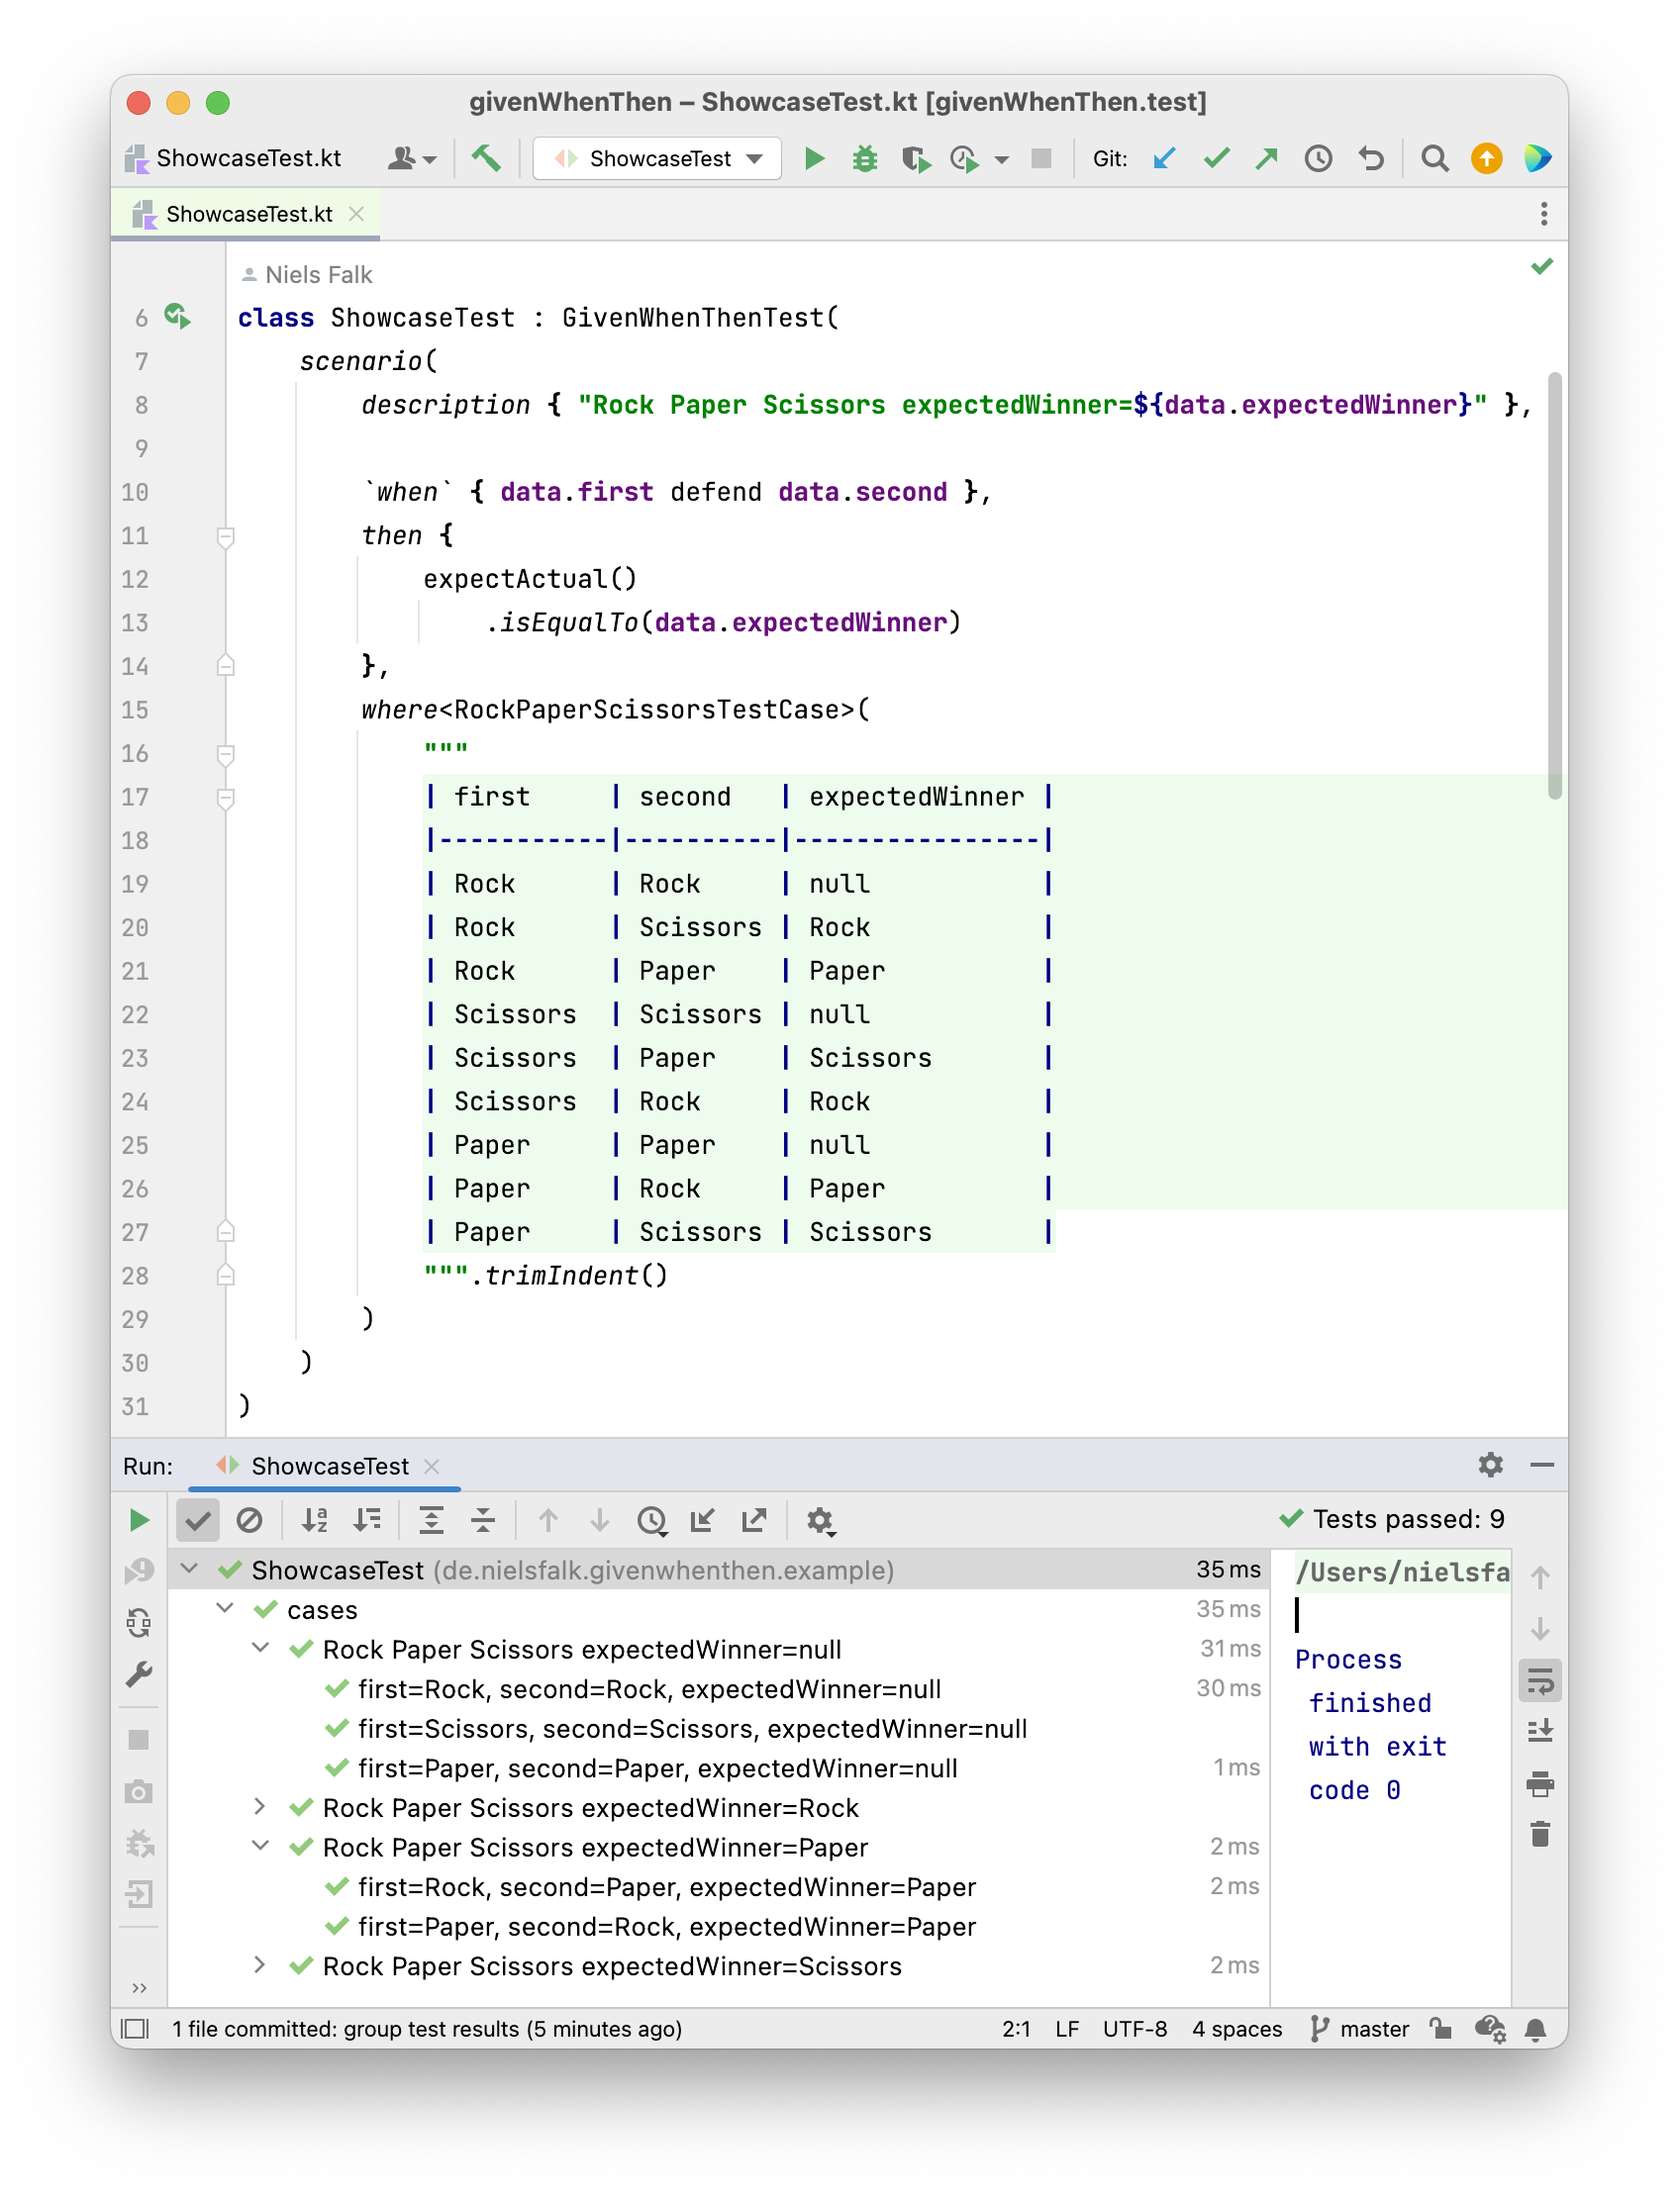
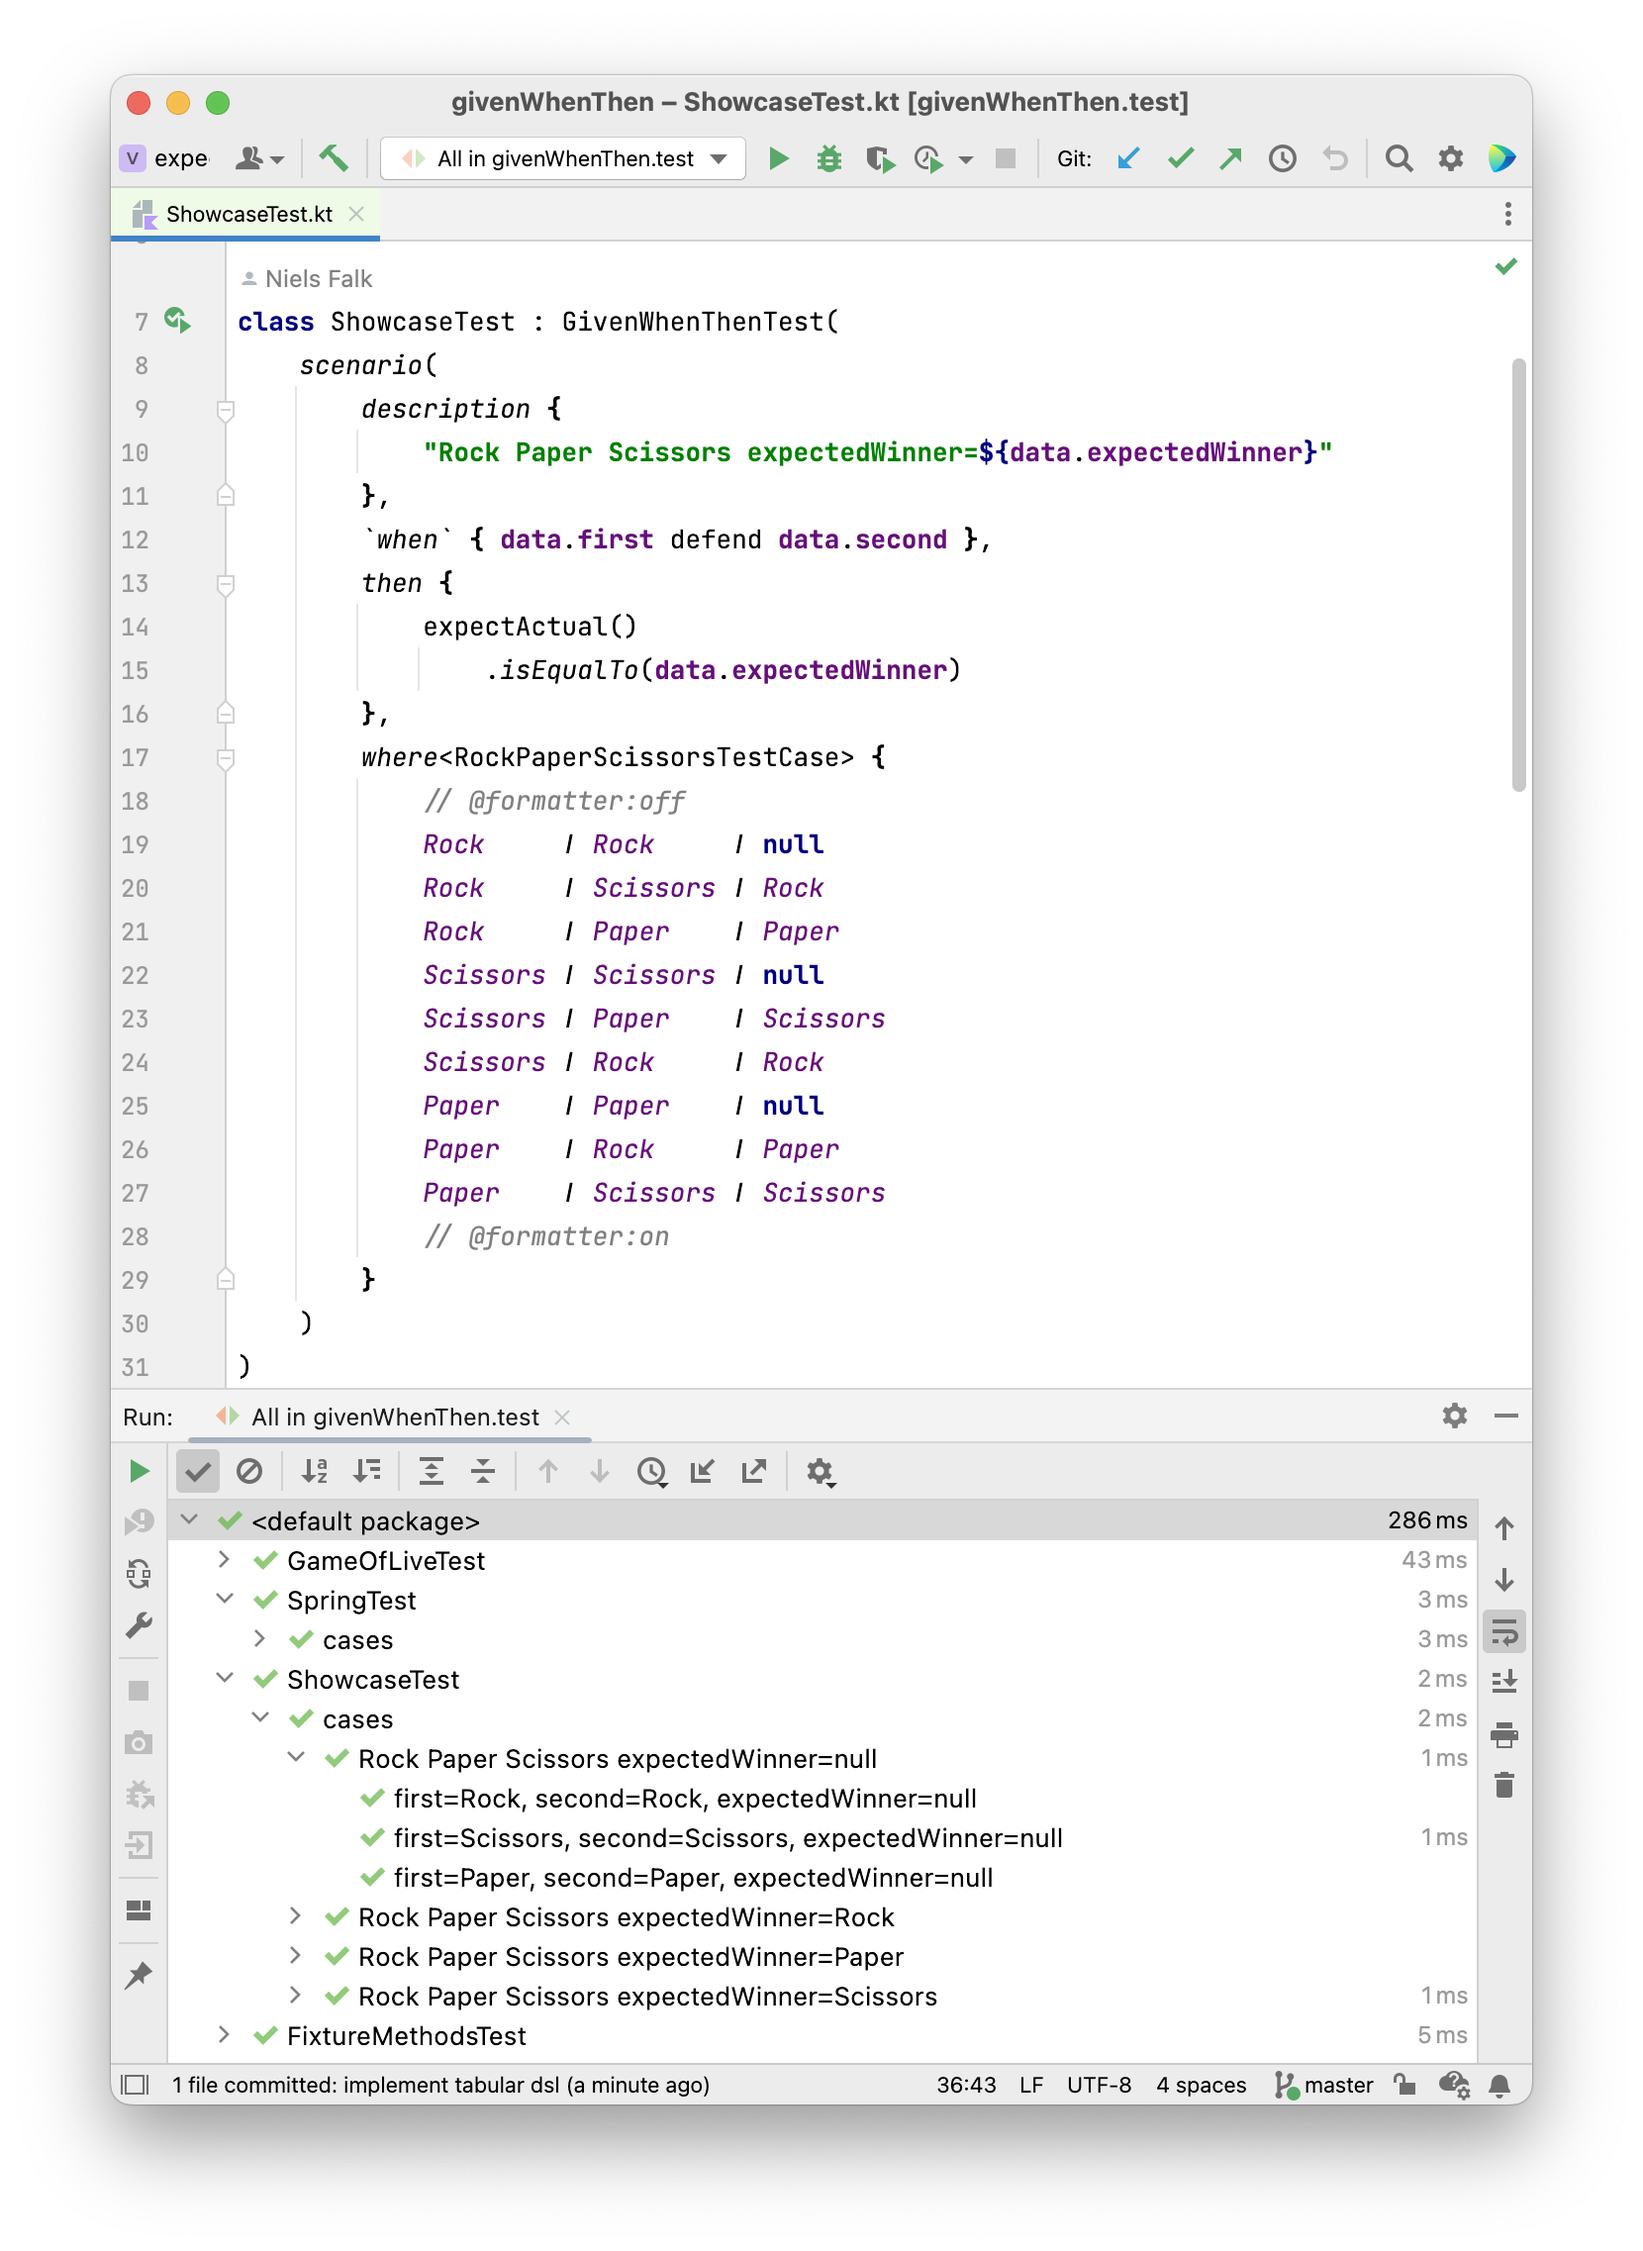
implement tabular dsl

diff --git a/src/test/kotlin/de/nielsfalk/givenwhenthen/example/ShowcaseTest.kt b/src/test/kotlin/de/nielsfalk/givenwhenthen/example/ShowcaseTest.kt
@@ -1,32 +1,32 @@
 package de.nielsfalk.givenwhenthen.example
 
 import de.nielsfalk.givenwhenthen.*
+import de.nielsfalk.givenwhenthen.example.RockPaperScissors.*
 import strikt.assertions.isEqualTo
 
 class ShowcaseTest : GivenWhenThenTest(
     scenario(
-        description { "Rock Paper Scissors expectedWinner=${data.expectedWinner}" },
-
+        description {
+            "Rock Paper Scissors expectedWinner=${data.expectedWinner}"
+        },
         `when` { data.first defend data.second },
         then {
             expectActual()
                 .isEqualTo(data.expectedWinner)
         },
-        where<RockPaperScissorsTestCase>(
-            """
-            | first     | second   | expectedWinner |
-            |-----------|----------|----------------|
-            | Rock      | Rock     | null           |
-            | Rock      | Scissors | Rock           |
-            | Rock      | Paper    | Paper          |
-            | Scissors  | Scissors | null           |
-            | Scissors  | Paper    | Scissors       |
-            | Scissors  | Rock     | Rock           |
-            | Paper     | Paper    | null           |
-            | Paper     | Rock     | Paper          |
-            | Paper     | Scissors | Scissors       |
-            """.trimIndent()
-        )
+        where<RockPaperScissorsTestCase> {
+            // @formatter:off
+            Rock     ǀ Rock     ǀ null
+            Rock     ǀ Scissors ǀ Rock
+            Rock     ǀ Paper    ǀ Paper
+            Scissors ǀ Scissors ǀ null
+            Scissors ǀ Paper    ǀ Scissors
+            Scissors ǀ Rock     ǀ Rock
+            Paper    ǀ Paper    ǀ null
+            Paper    ǀ Rock     ǀ Paper
+            Paper    ǀ Scissors ǀ Scissors
+            // @formatter:on
+        }
     )
 )
 

diff --git a/src/main/kotlin/de/nielsfalk/givenwhenthen/TabularDsl.kt b/src/main/kotlin/de/nielsfalk/givenwhenthen/TabularDsl.kt
@@ -1,0 +1,35 @@
+package de.nielsfalk.givenwhenthen
+
+import kotlin.reflect.jvm.isAccessible
+
+inline fun <reified T> where(function: TabularDataBuilder.() -> Unit): Array<T> = readTabularData(function)
+
+inline fun <reified T> readTabularData(function: TabularDataBuilder.() -> Unit): Array<T> =
+    TabularDataBuilder().run {
+        function()
+        val constructors = T::class.constructors
+
+        rowBuilders.map { rowBuilder ->
+            constructors.first { it.parameters.size == rowBuilder.cells.size }
+                .run {
+                    isAccessible = true
+                    call(*rowBuilder.cells.toTypedArray())
+                }
+        }.toTypedArray()
+    }
+
+class TabularDataBuilder {
+    val rowBuilders = mutableListOf<RowBuilder>()
+
+    @Suppress("FunctionName", "NonAsciiCharacters")
+    infix fun Any?.ǀ(nextCell: Any?): RowBuilder = if (this is RowBuilder) {
+        cells.add(nextCell)
+        this
+    } else RowBuilder(firstCell = this, nextCell).also {
+        rowBuilders += it
+    }
+}
+
+class RowBuilder(firstCell: Any?, secondCell: Any?) {
+    val cells = mutableListOf(firstCell, secondCell)
+}

diff --git a/src/test/kotlin/de/nielsfalk/givenwhenthen/TabularDslKtTest.kt b/src/test/kotlin/de/nielsfalk/givenwhenthen/TabularDslKtTest.kt
@@ -1,0 +1,23 @@
+package de.nielsfalk.givenwhenthen
+
+import strikt.assertions.containsExactly
+
+class TabularDslKtTest : GivenWhenThenTest(
+    scenario(
+        description { "read tabular data" },
+        `when` {
+            readTabularData<Triple<String, Int, Boolean>> {
+                // @formatter:off
+                "foo"      ǀ  1 ǀ true
+                "bar buzz" ǀ 15 ǀ false
+                // @formatter:on
+            }.toList()
+        },
+        then {
+            expectActual().containsExactly(
+                Triple("foo", 1, true),
+                Triple("bar buzz", 15, false)
+            )
+        }
+    )
+)

diff --git a/src/main/kotlin/de/nielsfalk/givenwhenthen/GivenWhenThenTest.kt b/src/main/kotlin/de/nielsfalk/givenwhenthen/GivenWhenThenTest.kt
@@ -14,7 +14,7 @@ abstract class GivenWhenThenTest(
     @DisplayName("cases")
     fun givenWhenThenTests(): List<DynamicNode> {
         val beforeAllAutoClose = AutoCloseBlock()
-        val groups = scenarios.flatMap { it }.groupBy { it.description }.toList()
+        val groups = scenarios.flatten().groupBy { it.description }.toList()
         return groups.flatMapIndexed { groupIndex, (name, tests) ->
             val dynamicTests = tests.mapIndexed { index, test ->
                 dynamicTest(

diff --git a/src/test/kotlin/de/nielsfalk/givenwhenthen/HanldedExceptionsTest.kt b/src/test/kotlin/de/nielsfalk/givenwhenthen/HanldedExceptionsTest.kt
@@ -4,7 +4,7 @@ import strikt.api.expectThat
 import strikt.assertions.isFalse
 import strikt.assertions.isTrue
 
-class HanldedExcetionsTest : GivenWhenThenTest(
+class HanldedExceptionsTest : GivenWhenThenTest(
     scenario(
         description { "throw in beforeAll" },
         `when` {

diff --git a/src/test/kotlin/de/nielsfalk/givenwhenthen/MarkdownParserKtTest.kt b/src/test/kotlin/de/nielsfalk/givenwhenthen/MarkdownParserKtTest.kt
@@ -19,7 +19,7 @@ class MarkdownParserKtTest : GivenWhenThenTest(
             markdown
         },
         `when` {
-            readMd<TestData>(it)
+            readMd(it)
         },
         then {
             expectActual()

diff --git a/README.md b/README.md
@@ -13,28 +13,27 @@ A Dsl is provided so Testcode can look like this
 ```kotlin
 class ShowcaseTest : GivenWhenThenTest(
     scenario(
-        description { "Rock Paper Scissors expectedWinner=${data.expectedWinner}" },
-
+        description {
+            "Rock Paper Scissors expectedWinner=${data.expectedWinner}"
+        },
         `when` { data.first defend data.second },
         then {
             expectActual()
                 .isEqualTo(data.expectedWinner)
         },
-        where<RockPaperScissorsTestCase>(
-            """
-            | first     | second   | expectedWinner |
-            |-----------|----------|----------------|
-            | Rock      | Rock     | null           |
-            | Rock      | Scissors | Rock           |
-            | Rock      | Paper    | Paper          |
-            | Scissors  | Scissors | null           |
-            | Scissors  | Paper    | Scissors       |
-            | Scissors  | Rock     | Rock           |
-            | Paper     | Paper    | null           |
-            | Paper     | Rock     | Paper          |
-            | Paper     | Scissors | Scissors       |
-            """.trimIndent()
-        )
+        where<RockPaperScissorsTestCase> {
+            // @formatter:off
+            Rock     ǀ Rock     ǀ null
+            Rock     ǀ Scissors ǀ Rock
+            Rock     ǀ Paper    ǀ Paper
+            Scissors ǀ Scissors ǀ null
+            Scissors ǀ Paper    ǀ Scissors
+            Scissors ǀ Rock     ǀ Rock
+            Paper    ǀ Paper    ǀ null
+            Paper    ǀ Rock     ǀ Paper
+            Paper    ǀ Scissors ǀ Scissors
+            // @formatter:on
+        }
     )
 )
 
@@ -45,7 +44,7 @@ private data class RockPaperScissorsTestCase(
 )
 ```
 
-It looks even cooler, when the markdown-table is syntax-highlighted by IntelliJ
+It looks even cooler in IntelliJ
 
 ![IntelliJ screenshot](screenshotShowcase.png "Title")
 
@@ -58,9 +57,9 @@ The Dsl is inspired by [Spock](https://spockframework.org/).
 What makes [Spock](https://spockframework.org/) stand out from the crowd is its beautiful and highly expressive specification language.
 
 
-## Geting started
+## Getting started
 
-Add the folowing to your ```build.gradle.kts```
+Add the following to your ```build.gradle.kts```
 
 ```kotlin
 repositories {
